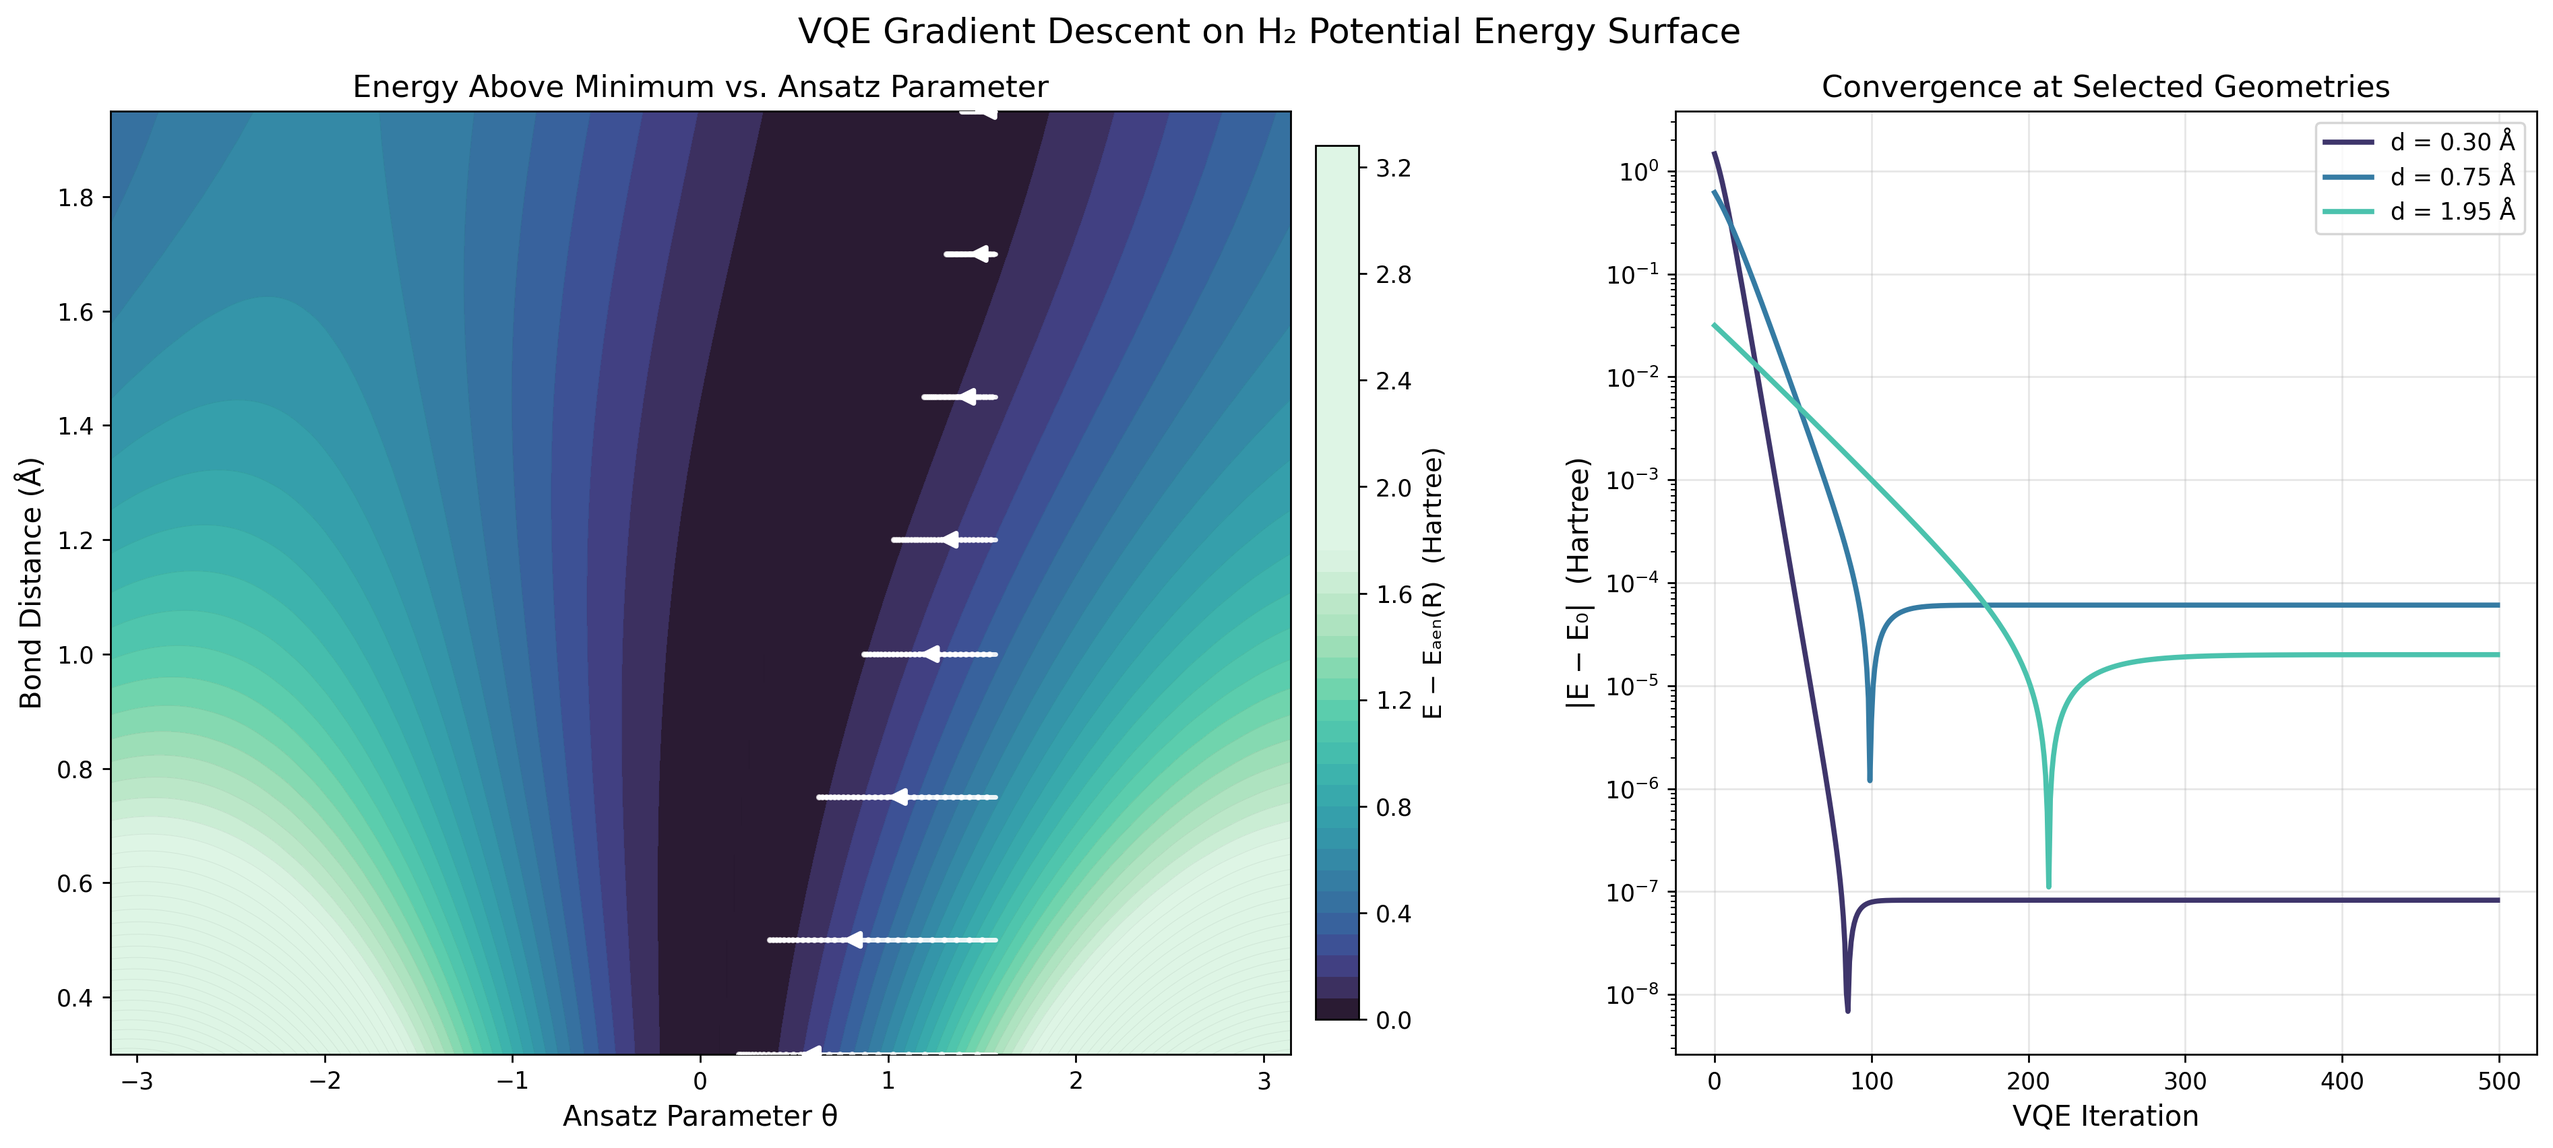
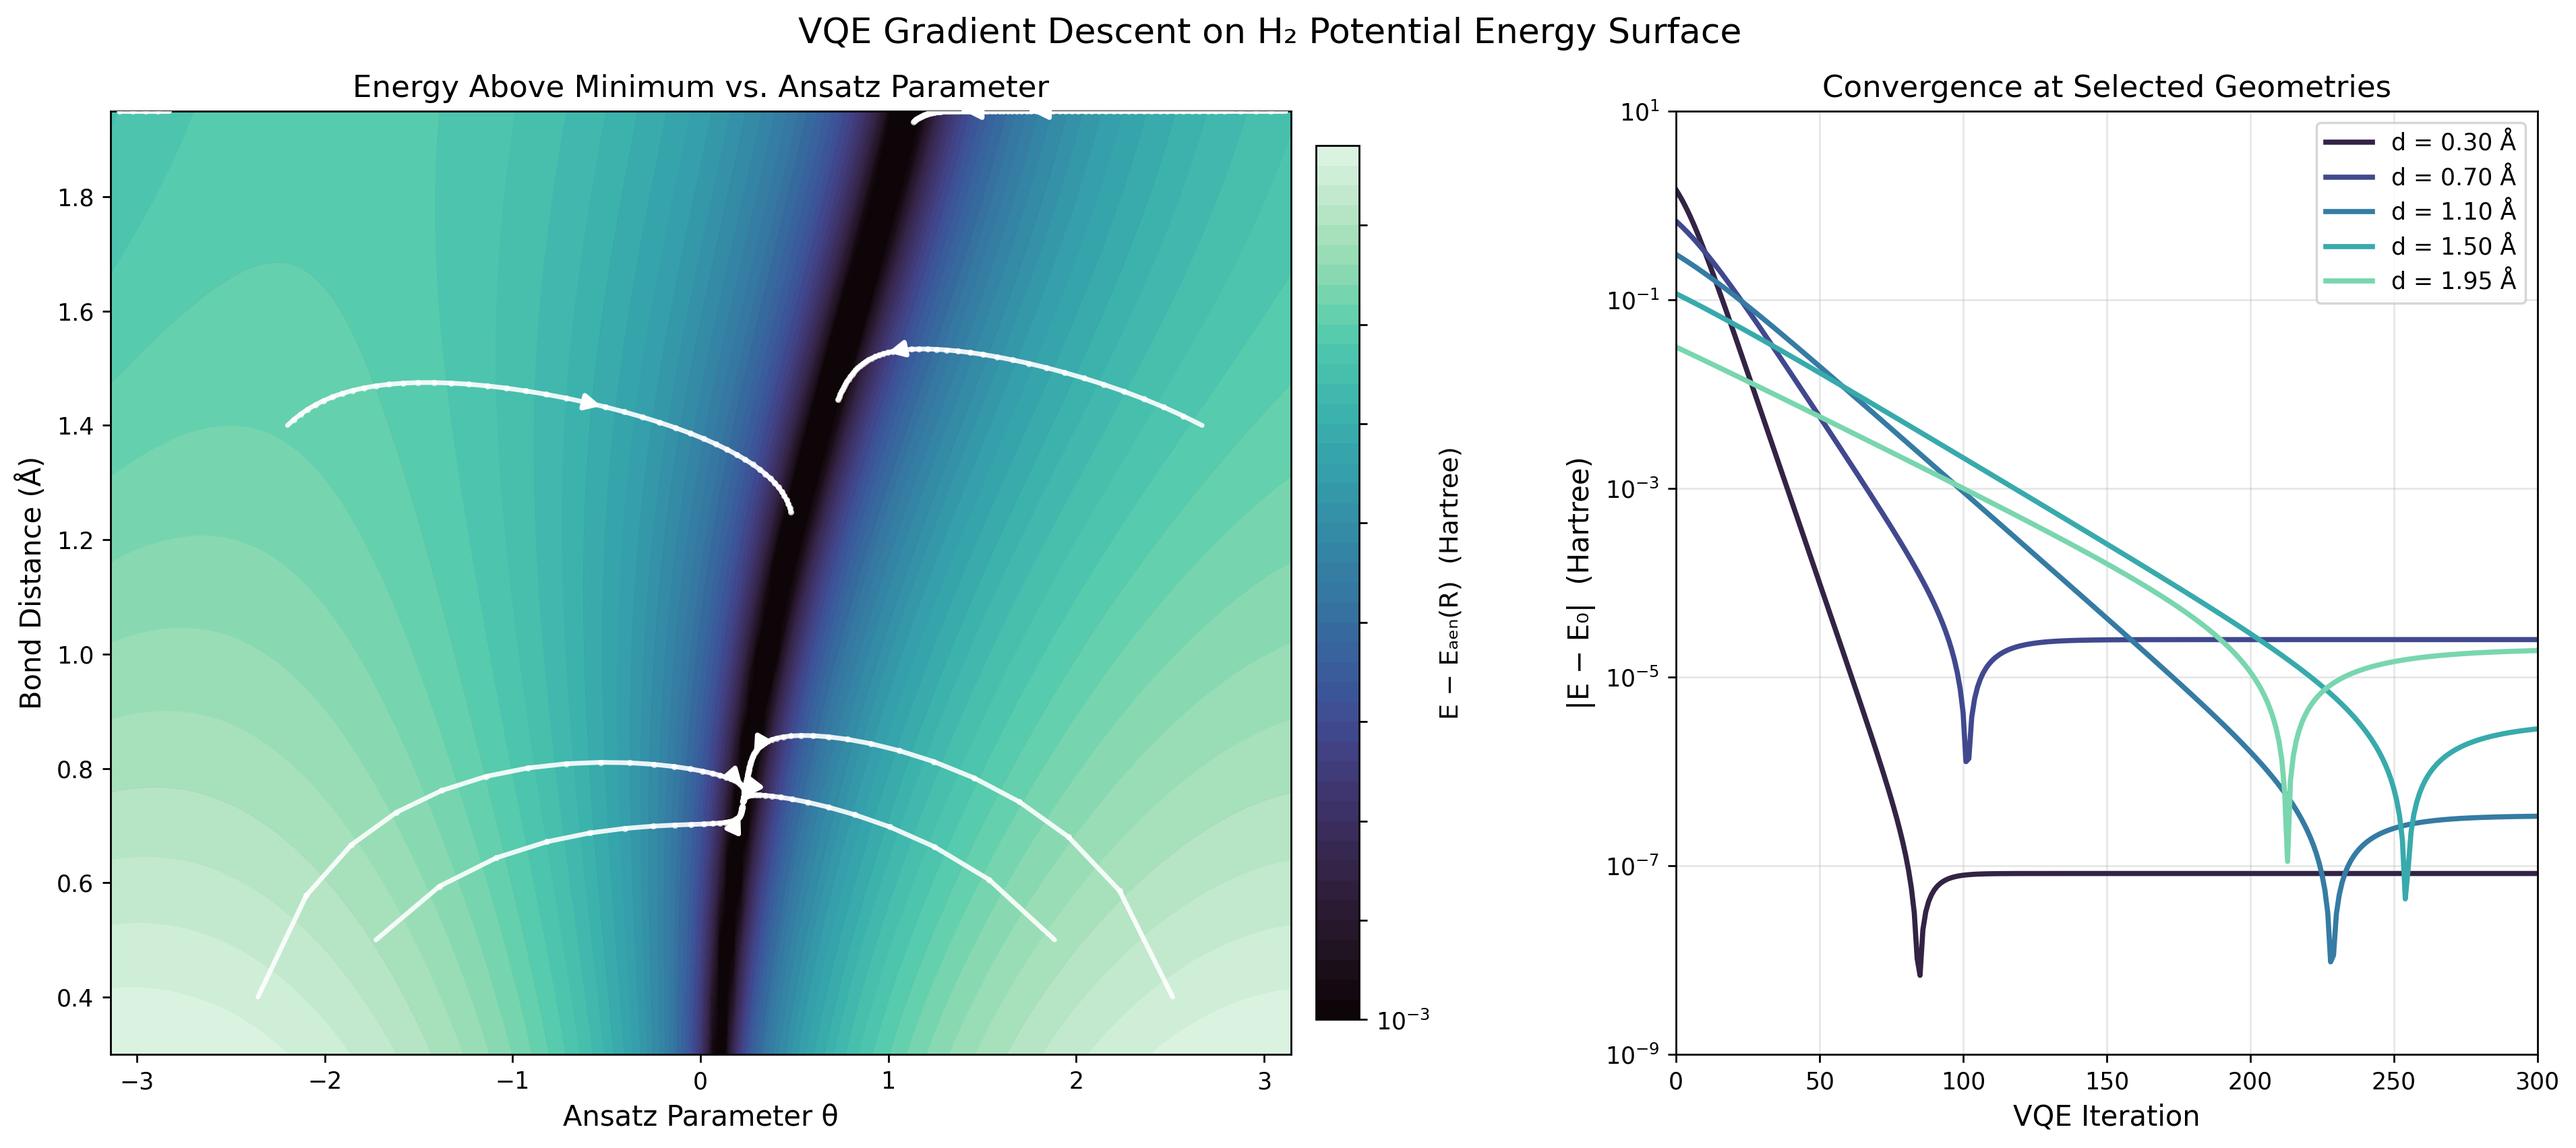
viz: 2D GD trajectories on energy grid, LogNorm PES, 5 convergence curves (300 iters, y-top=10)

diff --git a/visualization/heroVisualization.py b/visualization/heroVisualization.py
@@ -25,6 +25,7 @@ import matplotlib.gridspec as gridspec
 import matplotlib.pyplot as plt
 import numpy as np
 import seaborn as sns
+from scipy.interpolate import RegularGridInterpolator
 
 parent_dir = Path(__file__).resolve().parent.parent
 sys.path.append(str(parent_dir))
@@ -105,32 +106,58 @@ def createHeroVisualization(savePath):
     # varies with bond distance (deep at equilibrium, shallow at dissociation)
     relGrid = energyGrid - energyGrid.min(axis=1, keepdims=True)
 
-    # ── VQE trajectories at 8 sampled bond distances ──────────────────────────
-    # Each trajectory starts at theta=pi/2 (maximum gradient, clearly away from
-    # both the minimum and the saddle). Convergence rate is proportional to the
-    # coupling |B(R)|, which peaks at equilibrium and decays toward dissociation,
-    # so paths are short near R_eq and long near R_max -- physically revealing.
-    print("Computing VQE trajectories...")
+    # ── 2D gradient-descent trajectories ─────────────────────────────────────
+    # Numerical gradients over the absolute energy grid let each path move in
+    # BOTH theta AND R, tracing diagonal curves that converge toward the global
+    # minimum at (theta_eq, R_eq ≈ 0.74 Å). This makes the iterative steps
+    # visually connected and non-horizontal.
+    print("Computing 2D gradient-descent trajectories...")
     sampleIndices = np.linspace(0, len(distances) - 1, 8, dtype=int)
-    lr = 0.06
-    nSteps = 28
-    trajData = []  # list of (theta_path, R)
+    lr = 0.06  # kept for convergence section
 
-    for idx in sampleIndices:
-        h_mat, nuc = hMats[idx], nucs[idx]
-        t = np.pi / 2.0
-        tPath = [t]
-        for _ in range(nSteps):
-            g = _psrGradient(h_mat, nuc, ansatz, t)
-            t = t - lr * g
-            t = float(((t + np.pi) % (2.0 * np.pi)) - np.pi)
+    dEdTheta2d = np.gradient(energyGrid, thetas, axis=1)
+    dEdR2d = np.gradient(energyGrid, distances, axis=0)
+    gradThetaFn = RegularGridInterpolator(
+        (distances, thetas), dEdTheta2d,
+        method="linear", bounds_error=False, fill_value=None,
+    )
+    gradRFn = RegularGridInterpolator(
+        (distances, thetas), dEdR2d,
+        method="linear", bounds_error=False, fill_value=None,
+    )
+
+    nD = len(distances)
+    startPts = [
+        ( np.pi * 0.90,  distances[-1]),
+        (-np.pi * 0.90,  distances[-1]),
+        ( np.pi * 0.85,  distances[int(nD * 0.65)]),
+        (-np.pi * 0.70,  distances[int(nD * 0.65)]),
+        ( np.pi * 0.80,  distances[2]),   # compressed: large R-gradient
+        (-np.pi * 0.75,  distances[2]),   # compressed: large R-gradient
+        ( np.pi * 0.60,  distances[4]),
+        (-np.pi * 0.55,  distances[4]),
+    ]
+    lrTheta, lrR, nSteps2d = 0.30, 0.030, 45
+    trajData = []  # list of (tPath_array, RPath_array)
+
+    for t0, R0 in startPts:
+        t, R = float(t0), float(R0)
+        tPath, RPath = [t], [R]
+        for _ in range(nSteps2d):
+            gt = float(gradThetaFn([[R, t]]).item())
+            gR = float(gradRFn([[R, t]]).item())
+            t = float(((t - lrTheta * gt + np.pi) % (2.0 * np.pi)) - np.pi)
+            R = float(np.clip(R - lrR * gR, distances[0], distances[-1]))
             tPath.append(t)
-        trajData.append((np.array(tPath), distances[idx]))
+            RPath.append(R)
+        trajData.append((np.array(tPath), np.array(RPath)))
 
     # ── Convergence curves at 3 representative geometries ─────────────────────
     print("Computing convergence curves...")
     eqDistIdx = int(np.argmin(energyGrid.min(axis=1)))
-    convIndices = [sampleIndices[0], eqDistIdx, sampleIndices[-1]]
+    # 5 evenly spaced geometries -- avoids duplicates that occur when eqDistIdx
+    # coincides with one of the sampleIndices values.
+    convIndices = list(np.linspace(0, len(distances) - 1, 5, dtype=int))
     convEnergy = []
     convGround = []
 
@@ -140,7 +167,7 @@ def createHeroVisualization(savePath):
         convGround.append(ground)
         t = np.pi / 2.0
         steps = [_energyAt(h_mat, nuc, ansatz, t)]
-        for _ in range(499):
+        for _ in range(299):
             g = _psrGradient(h_mat, nuc, ansatz, t)
             t = t - lr * g
             t = float(((t + np.pi) % (2.0 * np.pi)) - np.pi)
@@ -149,7 +176,7 @@ def createHeroVisualization(savePath):
 
     # ── Color palettes -- exact match to vqe_energy_curves.py ─────────────────
     pesCmap = sns.color_palette("mako", as_cmap=True)
-    convPalette = sns.color_palette("mako", n_colors=3)
+    convPalette = sns.color_palette("mako", n_colors=5)
 
     # ── Figure ────────────────────────────────────────────────────────────────
     fig = plt.figure(figsize=(16, 7))
@@ -161,45 +188,45 @@ def createHeroVisualization(savePath):
 
     # ── Left: relative PES + per-distance trajectories ────────────────────────
     THETA, DIST = np.meshgrid(thetas, distances)
-    # PowerNorm(gamma<1) expands the dark/near-zero region so the well bottom
-    # shows gradation. vmax capped at 92nd-percentile to prevent extreme
-    # compressed-geometry values from crushing the midrange into a flat band.
-    pesVmax = float(np.percentile(relGrid, 92))
-    pesNorm = mcolors.PowerNorm(gamma=0.55, vmin=0.0, vmax=pesVmax)
-    cf = axLeft.contourf(THETA, DIST, relGrid, levels=40, cmap=pesCmap, norm=pesNorm)
-    axLeft.contour(THETA, DIST, relGrid, levels=40, colors="k", alpha=0.06, linewidths=0.3)
-    cbar = fig.colorbar(cf, ax=axLeft, fraction=0.035, pad=0.02, extend="max")
+    # LogNorm gives smooth log-spaced color transition across the full dynamic
+    # range: near-minimum (small relGrid) → dark navy; edges (large) → teal.
+    # Avoids the sharp band that PowerNorm produced in the midrange.
+    relGridClip = np.clip(relGrid, 1e-3, None)
+    pesVmax = float(relGrid.max())
+    pesNorm = mcolors.LogNorm(vmin=1e-3, vmax=pesVmax)
+    pesLevels = np.geomspace(1e-3, pesVmax, 45)
+    cf = axLeft.contourf(THETA, DIST, relGridClip, levels=pesLevels, cmap=pesCmap, norm=pesNorm)
+    axLeft.contour(THETA, DIST, relGridClip, levels=pesLevels[::5], colors="k", alpha=0.06, linewidths=0.3)
+    cbar = fig.colorbar(cf, ax=axLeft, fraction=0.035, pad=0.02)
     cbar.set_label("E \u2212 E\u2090\u2091\u2099(R)  (Hartree)", fontsize=11)
 
-    for tPath, R in trajData:
-        # Connected piecewise segments: each GD step is a full-length segment
-        # so the iterative path is visible as a chain of connected steps.
+    for tPath, RPath in trajData:
+        # 2D connected segments: each step moves in both theta AND R space.
         for i in range(len(tPath) - 1):
-            t0, t1 = tPath[i], tPath[i + 1]
-            if abs(t1 - t0) > np.pi:  # skip wrap-around jump
+            if abs(tPath[i + 1] - tPath[i]) > np.pi:  # skip wrap-around
                 continue
             axLeft.plot(
-                [t0, t1], [R, R],
+                [tPath[i], tPath[i + 1]], [RPath[i], RPath[i + 1]],
                 color="white", linewidth=2.0, alpha=0.90,
                 zorder=3, solid_capstyle="round",
             )
-        # Small dots at each step boundary to mark discrete iterations
-        dotThetas = [
-            tPath[i + 1] for i in range(len(tPath) - 1)
+        # Dots at each step boundary
+        validIdx = np.array([
+            i + 1 for i in range(len(tPath) - 1)
             if abs(tPath[i + 1] - tPath[i]) <= np.pi
-        ]
-        if dotThetas:
+        ])
+        if len(validIdx):
             axLeft.scatter(
-                dotThetas, [R] * len(dotThetas),
+                tPath[validIdx], RPath[validIdx],
                 color="white", s=7, zorder=4, alpha=0.70, linewidths=0,
             )
-        # White arrow at midpoint to show descent direction
+        # Directional arrow at midpoint
         midIdx = max(0, len(tPath) // 2 - 1)
         if midIdx + 1 < len(tPath) and abs(tPath[midIdx + 1] - tPath[midIdx]) <= np.pi:
             axLeft.annotate(
                 "",
-                xy=(tPath[midIdx + 1], R),
-                xytext=(tPath[midIdx], R),
+                xy=(tPath[midIdx + 1], RPath[midIdx + 1]),
+                xytext=(tPath[midIdx], RPath[midIdx]),
                 arrowprops=dict(arrowstyle="-|>", color="white", lw=2.0, mutation_scale=14),
                 zorder=5,
             )
@@ -215,6 +242,8 @@ def createHeroVisualization(savePath):
         axRight.plot(err, color=c, linewidth=2.2, label=label)
 
     axRight.set_yscale("log")
+    axRight.set_xlim(0, 300)
+    axRight.set_ylim(bottom=1e-9, top=10.0)
     axRight.set_xlabel("VQE Iteration", fontsize=12)
     axRight.set_ylabel("|E \u2212 E\u2080|  (Hartree)", fontsize=12)
     axRight.set_title("Convergence at Selected Geometries", fontsize=13)
